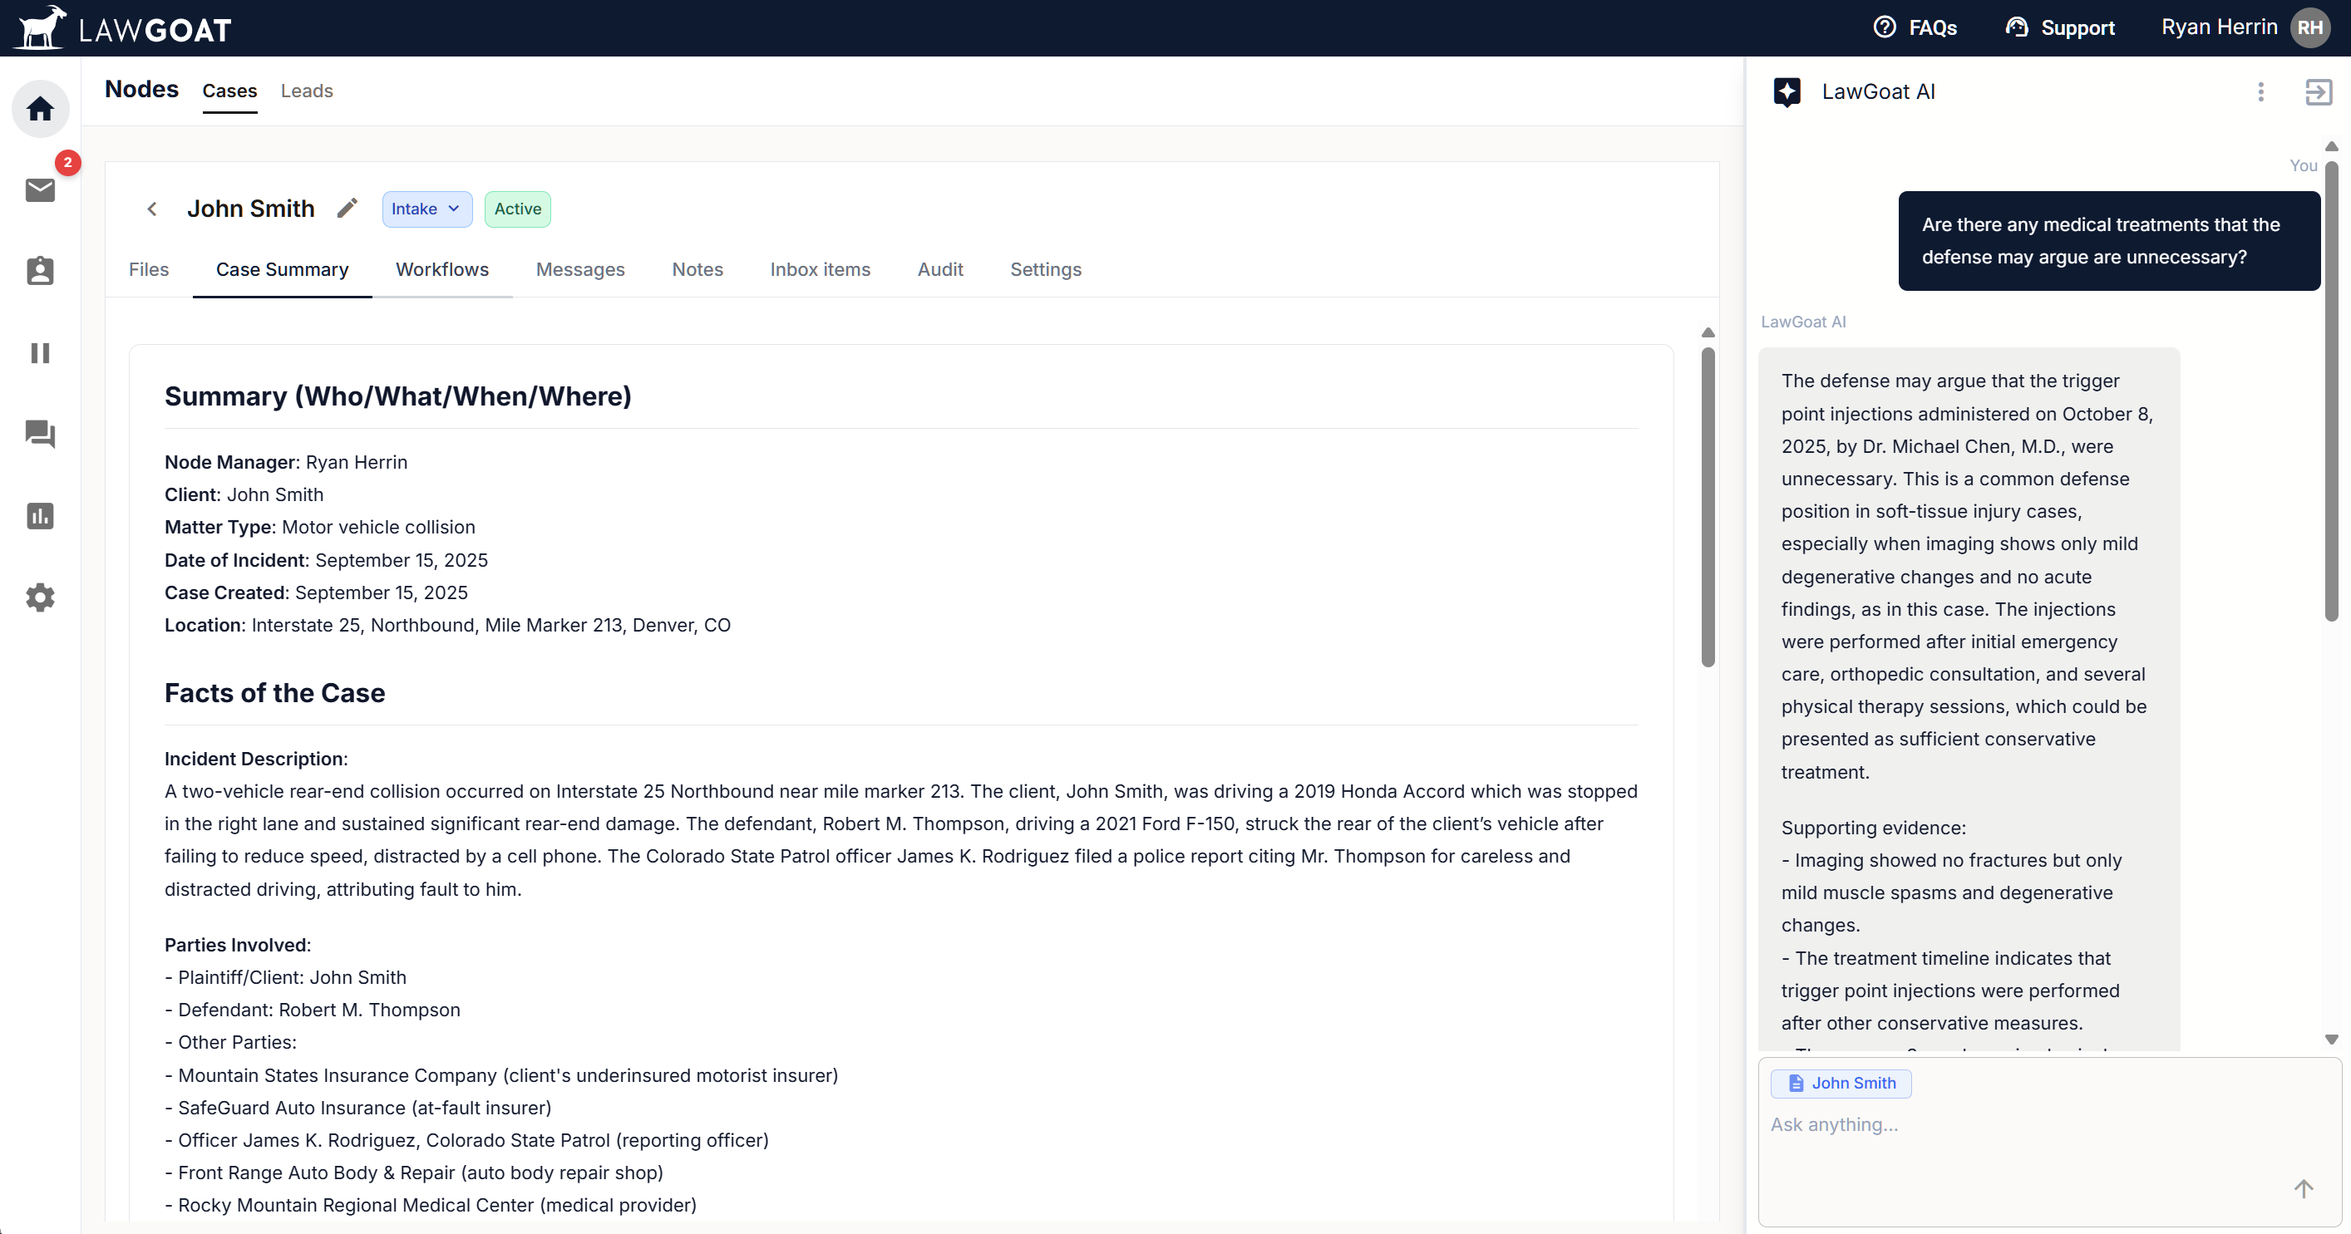
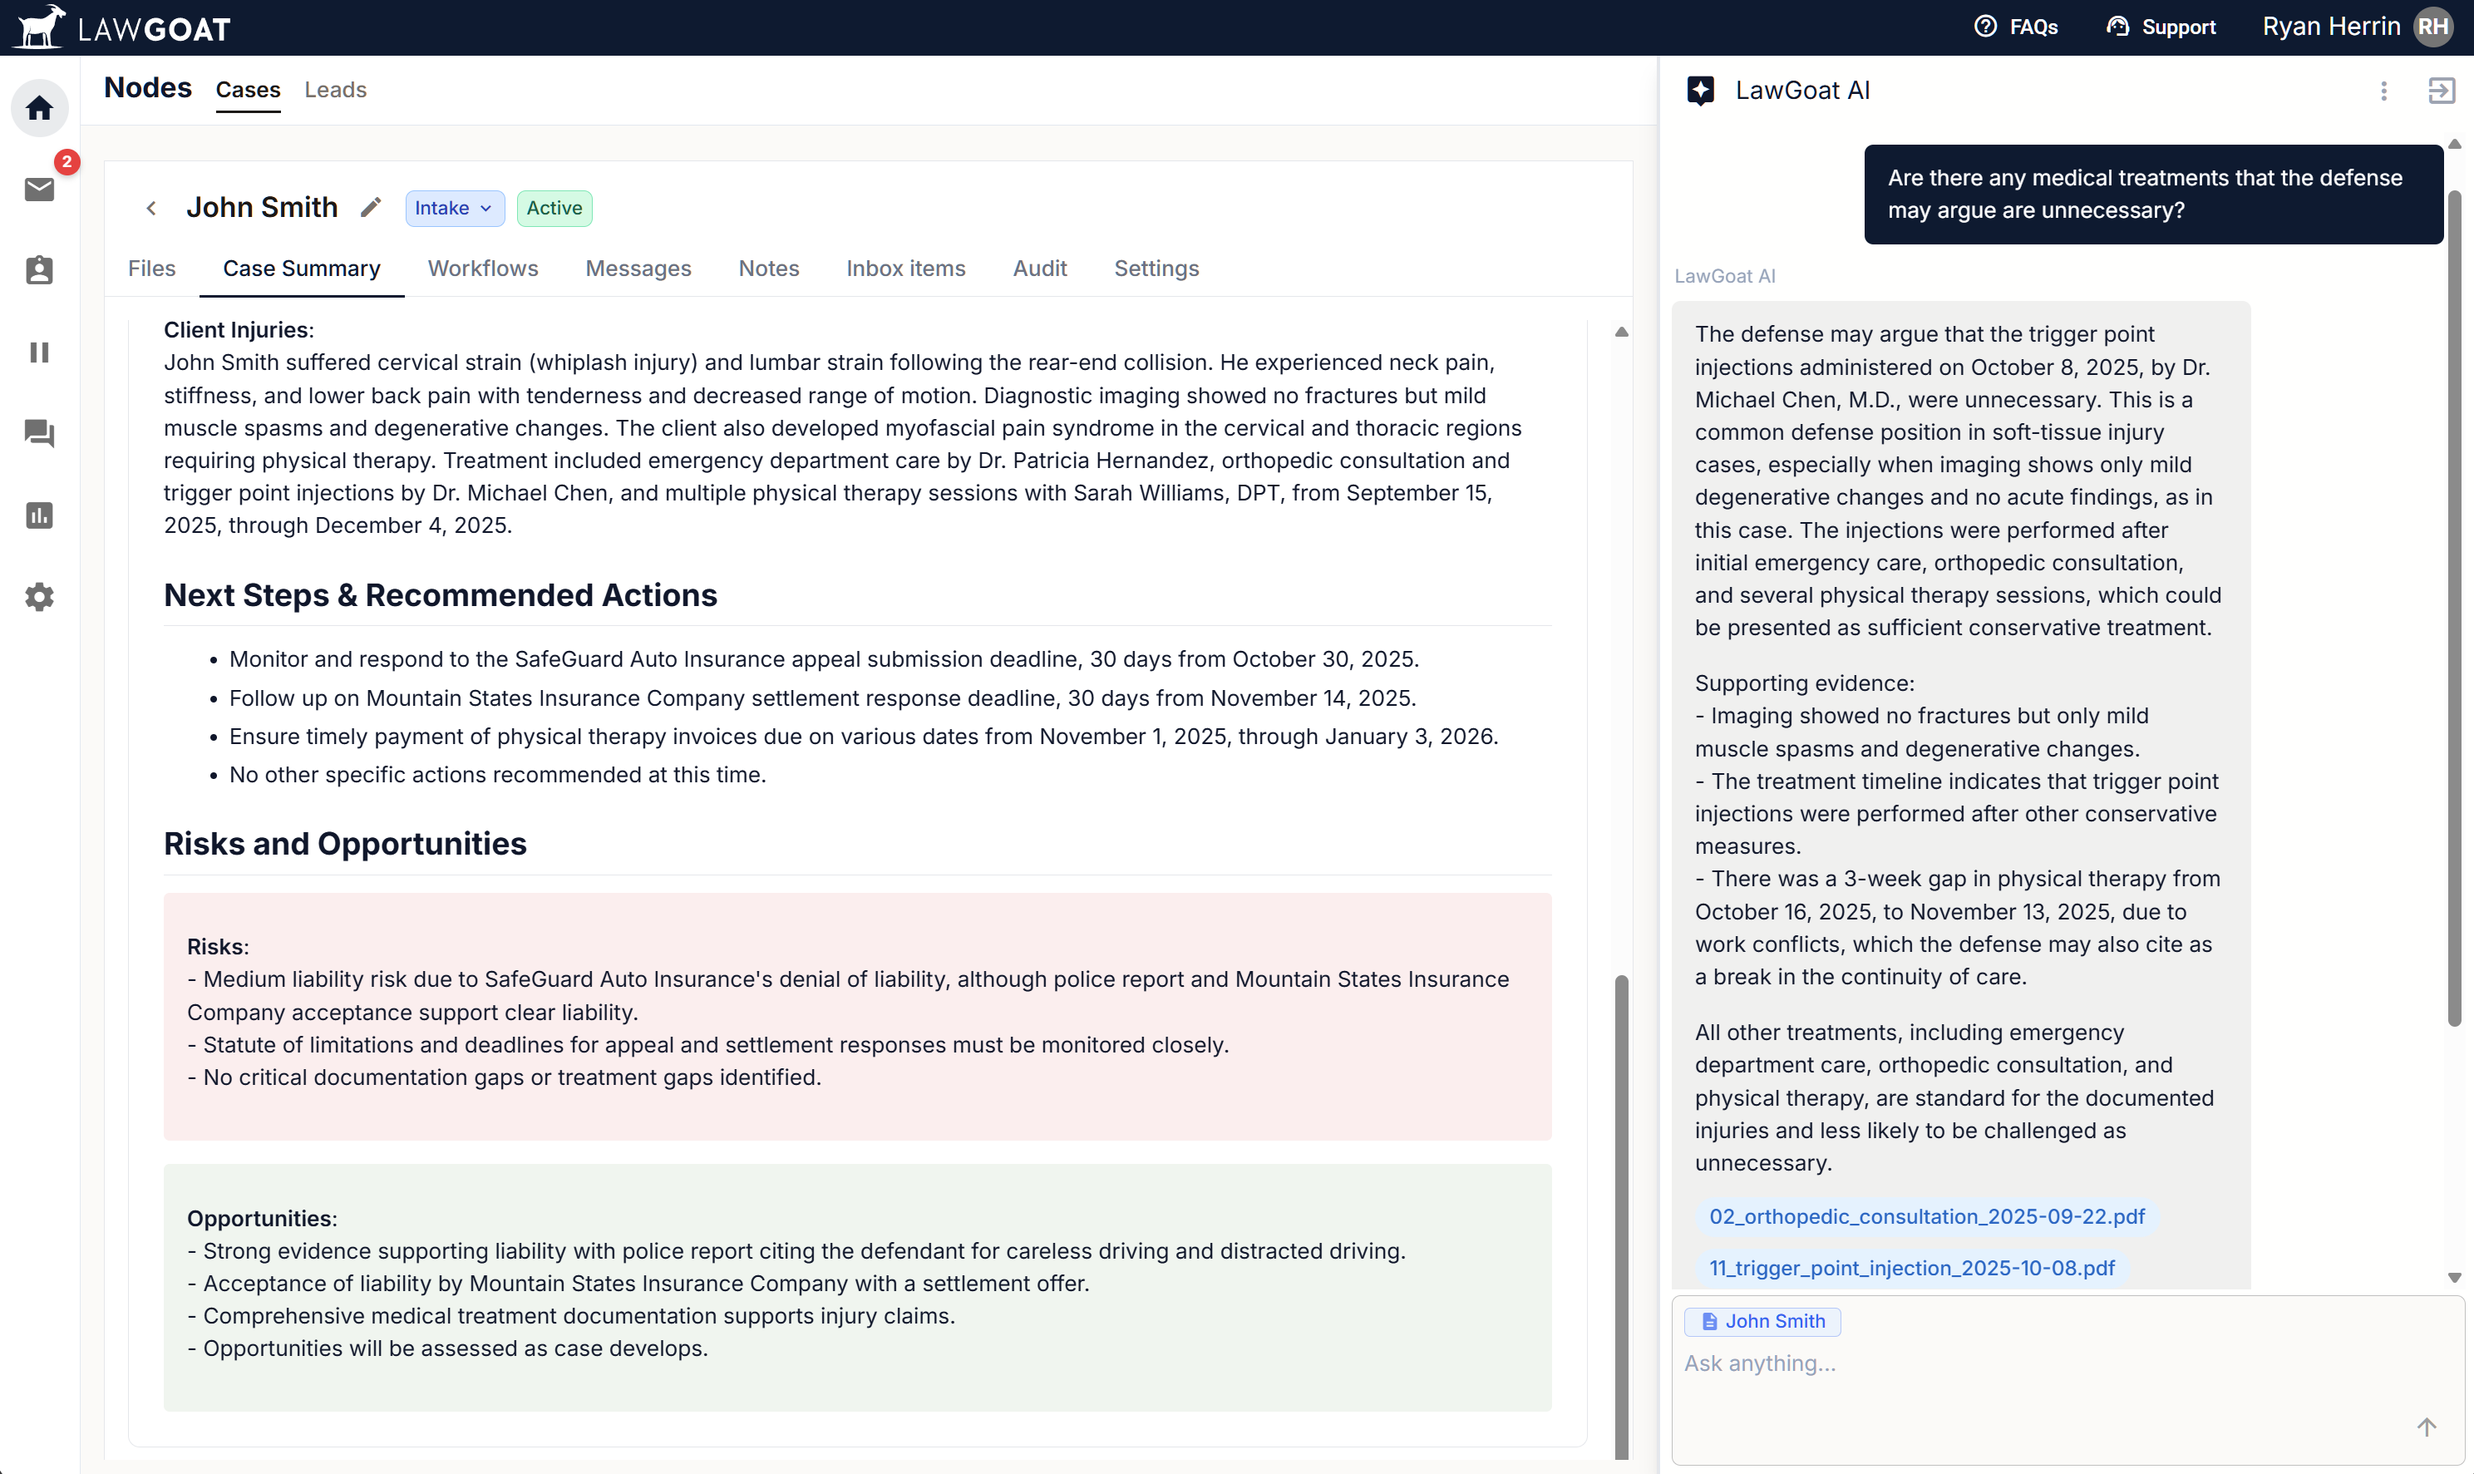
Fix shot crop and swap in better AI chat screenshot
object-fit: cover was cropping the right/bottom off screenshots whose
aspect ratio didn't match the fixed 16:9 box; switch to contain so the
full image is always visible. Also swap the AI Chat shot for the
Risks/Opportunities view, which matches the section copy better.

diff --git a/deep-field/styles.css b/deep-field/styles.css
@@ -2356,9 +2356,10 @@ html.case-study-page body::after {
 .detail-page__shot--frame img {
   width: 100%;
   height: 100%;
-  object-fit: cover;
-  object-position: top left;
+  object-fit: contain;
+  object-position: center;
   display: block;
+  background: #191919;
 }
 
 .mockup__screen--frame {
